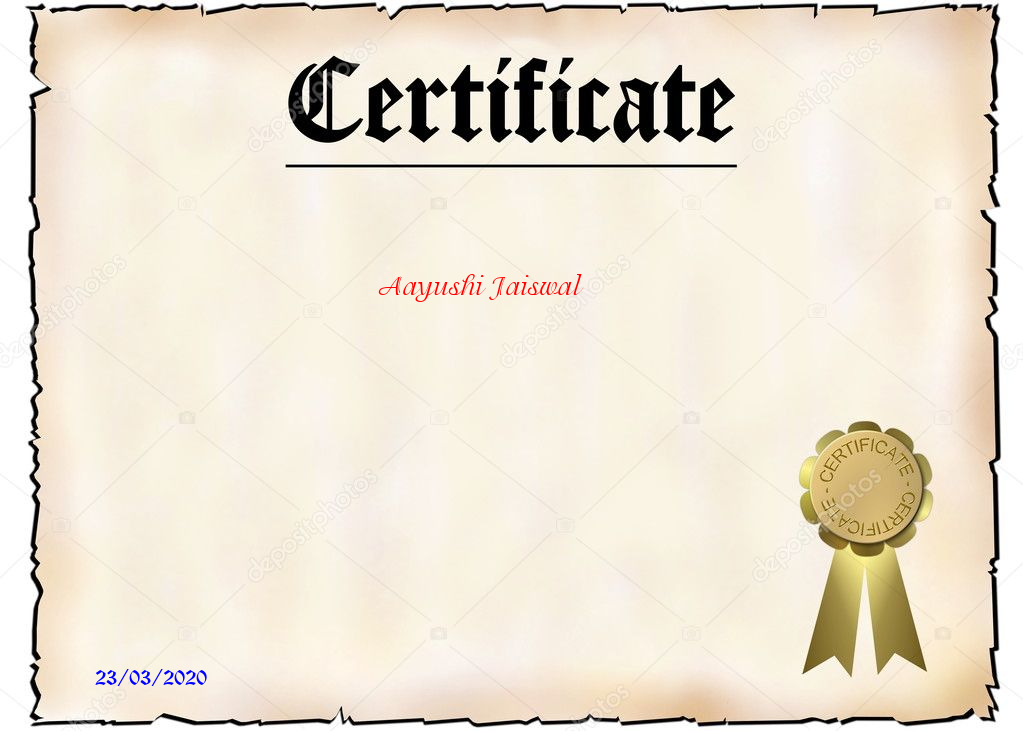
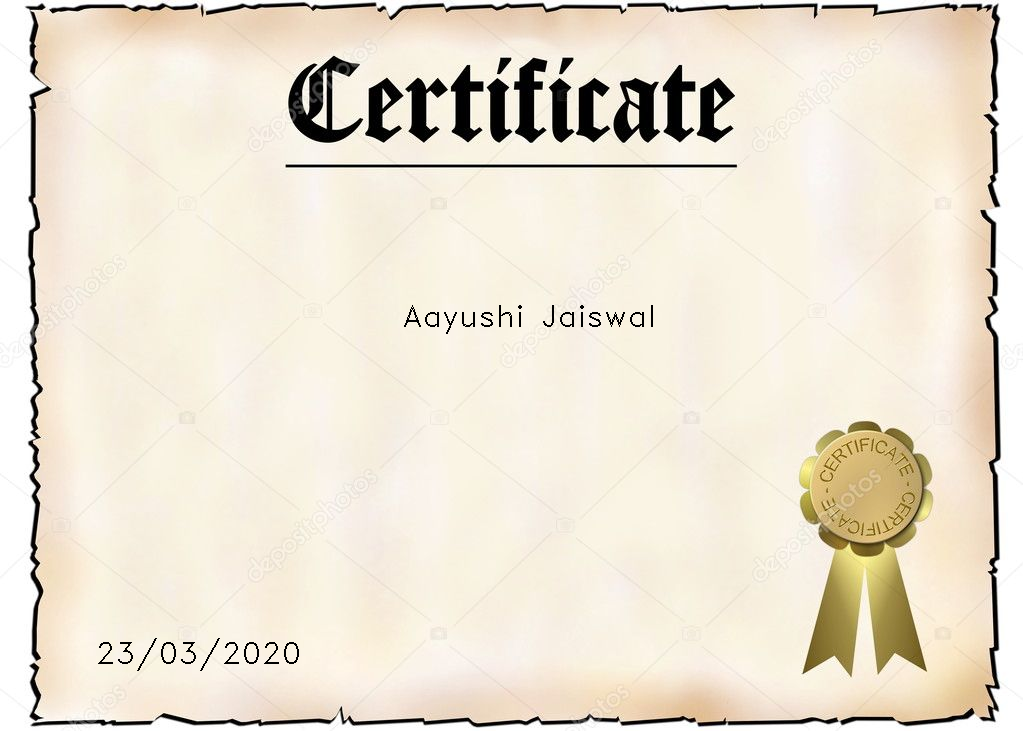
Updated script

Changed region(s): [[0.3636, 0.3611, 0.6364, 0.4514], [0.0909, 0.8728, 0.303, 0.933]]

diff --git a/certificate.py b/certificate.py
@@ -1,9 +1,5 @@
 
-from PIL import ImageFont, ImageDraw, Image  
 import cv2  
-import numpy as np  
-import os
-import csv
 
 f = open("names.txt","r")
 names_list = f.read().split("\n")
@@ -18,34 +14,19 @@ for i in range(len(names_list)):
 
 
     name_to_print = names_list[i]
-    date_to_print = "23/03/2020"   #Change this date as per requirement
-
+    date_to_print = "23/03/2020"   
     # Load image in OpenCV  
     image = cv2.imread("certificate.jpg")  
 
-    # Convert the image to RGB (OpenCV uses BGR)  
-    cv2_im_rgb = cv2.cvtColor(image,cv2.COLOR_BGR2RGB)  
+    cv2.putText(image,name_to_print,(int(coordinates[0]), int(coordinates[1])),2,1,(0,0,0)) 
+    cv2.putText(image,date_to_print,(int(coordinates[2]), int(coordinates[3])),2,1,(0,0,0)) 
 
-    # Pass the image to PIL  
-    pil_im = Image.fromarray(cv2_im_rgb)  
-
-    draw = ImageDraw.Draw(pil_im)  
-    # use a truetype font  
-    font = ImageFont.truetype("./fonts/MLSJN.TTF", 29)      #You can change fonts from list given bottom
-    font1 = ImageFont.truetype("./fonts/OLDENGL.TTF", 22) 
-
-    # Draw the text 
-    draw.text((int(coordinates[0]), int(coordinates[1])), name_to_print, font=font , fill='red')
-    draw.text((int(coordinates[2]), int(coordinates[3])), date_to_print , font=font1, fill='blue')
-    
-    # Get back the image to OpenCV  
-    cv2_im_processed = cv2.cvtColor(np.array(pil_im), cv2.COLOR_RGB2BGR)  
     
     if flag:
-        cv2.imshow('Certificate', cv2_im_processed) #Shows sample image
+        cv2.imshow('Certificate', image) #Shows sample image
         flag=False
     path = ''
-    cv2.imwrite('./output/'+name_to_print+'.png',cv2_im_processed)
+    cv2.imwrite('./output/'+name_to_print+'.png',image)
     #os.startfile('output.png')
       
 

diff --git a/select_cood.py b/select_cood.py
@@ -6,18 +6,19 @@ f = open("coords.txt","w")
 def draw_circle(event,x,y,flags,param):
     if event == cv.EVENT_LBUTTONDBLCLK:
         #img[:] = 0
-        cv.putText(img,"coordinates (%d,%d)"%(x,y),(60,60),2,1,(0,255,0)) #SELECT LOCATION OF TEXT(TRIAL & ERROR)
-        f.write(str(x)+"\n")                                              #SELECT TEXT'S TOP SIDE COORDS 
-        f.write(str(y)+"\n")                                              #DOUBLE CLICK TO SELECT
-                                                                           #COORDS WITH GREEN TEXT WILL BE DISPLAYED
+        cv.putText(img,"coordinates (%d,%d)"%(x,y),(60,60),2,1,(0,255,0)) 
+        f.write(str(x)+"\n")                                              
+        f.write(str(y)+"\n")                                              
+                                                                          
 # Create a black image, a window and bind the function to window
 img = cv.imread("certificate.jpg")
 
 
 #cv.imshow('image',img)
 cv.namedWindow('image')
-cv.setMouseCallback('image',draw_circle)
+
 while(1):
+    cv.setMouseCallback('image',draw_circle)
     cv.imshow('image',img)
     if cv.waitKey(10) & 0xFF==27:   #Press Escape Key to terminate window
         break
